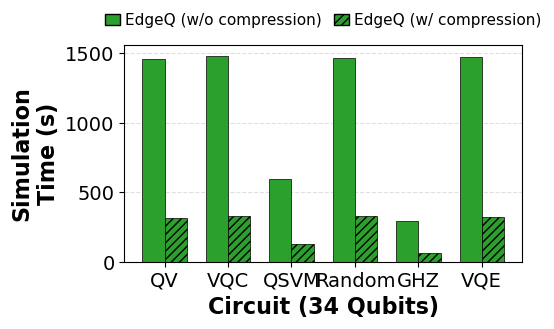
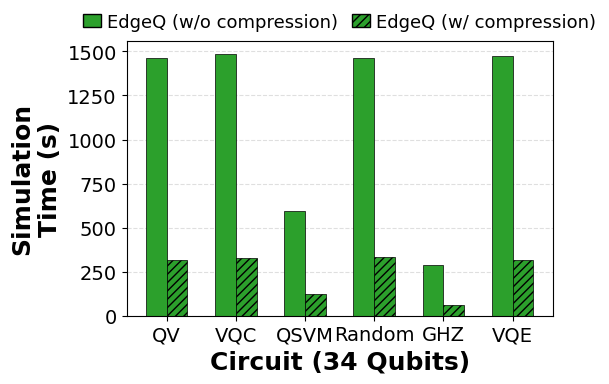
asdasda

diff --git a/4_Evaluation.tex b/4_Evaluation.tex
@@ -130,7 +130,8 @@ Since \EdgeQuantum streams state vector chunks through asynchronous storage I/O 
 
 Since the 256~GB physical NVMe SSD on the Jetson platform cannot accommodate raw state vectors beyond 35 qubits, \EdgeQuantum uses ping-pong LZ4 compression to extend simulation capacity. Figure~\ref{fig:storage_eff} reports two measurements. Figure~\ref{fig:eff_footprint} shows storage footprint reduction from 34Q to 39Q. Figure~\ref{fig:eff_speedup} shows per-circuit speedup at 34Q, where uncompressed state vectors dominate I/O time.
 
-\noindent\textbf{Storage Footprint Reduction.} Figure~\ref{fig:eff_footprint} compares logical state vector size with the on-disk footprint of the dual-file ping-pong layout. As qubit count grows from 34Q to 39Q, the logical footprint expands from 128~GB to 4~TB, while the ping-pong footprint scales from 1.00~GB to 32.13~GB. Each backing file occupies half of this footprint, corresponding to a per-file LZ4 compression ratio of 254$\times$-256$\times$ across all qubit counts. This indicates stable compression efficiency as the state vector grows. The dual-file layout doubles on-disk usage to ensure atomic per-layer updates, yielding an effective storage reduction of 128$\times$ relative to the logical size. The 128$\times$ metric reflects the total on-disk footprint with both backing files coexisting, whereas execution I/O volume scales with a single file at the full 256$\times$ per-file ratio. As a result, \EdgeQuantum fits a 39-qubit simulation within 32~GB of NVMe storage, whereas the raw representation exceeds physical capacity by 2$\times$ at 36Q and 16$\times$ at 39Q.
+\noindent\textbf{Storage Footprint Reduction.} Figure~\ref{fig:eff_footprint} compares logical state vector size with the on-disk footprint of the dual-file ping-pong layout. As qubit count grows from 34Q to 39Q, the logical footprint expands from 128~GB to 4~TB, while the ping-pong footprint scales from 1.00~GB to 32.13~GB. Each backing file occupies half of this footprint, corresponding to a per-file LZ4 compression ratio of 254$\times$-256$\times$ across all qubit counts. The dual-file layout doubles on-disk usage to ensure atomic per-layer updates, yielding an effective storage reduction of 128$\times$ relative to the logical size. The 128$\times$ metric reflects the total on-disk footprint with both backing files coexisting, whereas execution I/O volume scales with a single file at the full 256$\times$ per-file ratio. As a result, \EdgeQuantum fits a 39-qubit simulation within 32~GB of NVMe storage, whereas the raw representation exceeds physical capacity by 2$\times$ at 36Q and 16$\times$ at 39Q.
+
 
 \noindent\textbf{Performance Benefit.} Figure~\ref{fig:eff_speedup} compares per-circuit simulation time of \EdgeQuantum with and without LZ4 compression at 34Q. Compression yields a tightly clustered 4.41$\times$-4.74$\times$ speedup across all six circuit types, with the largest gain on QSVM (593.1s $\rightarrow$ 125.0s, 4.74$\times$) and the smallest on Random (1463.9s $\rightarrow$ 332.1s, 4.41$\times$). This speedup arises because the 256$\times$ LZ4 ratio reduces I/O volume between UVM and NVMe and transforms an I/O-bound workload into one dominated by compression and decompression overhead. At 34Q, all circuits become heavily I/O-bound regardless of compute density, so compression delivers uniform speedup across the workload set. The asynchronous pipeline alone capped GHZ at 1.21$\times$ (Section~\ref{4.2}) because its narrow compute window limited write-latency overlap. Compression bypasses this compute-window dependence by reducing I/O volume directly, so GHZ achieves 4.60$\times$ speedup matching the compute-dense circuits.
 
@@ -161,11 +162,11 @@ VQE    & 617.09 & 1,224.21 & 2,454.56 & 5,004.44 & 9,900.70 \\
 \label{tab:extreme_results}
 \end{table}
 
-Beyond the 34 qubits, the logical state vector exceeds the 256GB SSD capacity by up to 16$\times$ (4TB at 39Q). This makes the LZ4 ping-pong compression layer mandatory for execution, enabling \EdgeQuantum to operate where alternative simulators fail. Table~\ref{tab:extreme_results} shows the per-circuit simulation times across 35Q (256GB) to 39Q (4TB) at depth 5.
+Beyond the 34 qubits, the logical state vector exceeds the 256GB SSD capacity by up to 16$\times$ (4TB at 39Q). This makes the LZ4 ping-pong compression layer mandatory for execution, enabling \EdgeQuantum to operate where alternative simulators fail. Table~\ref{tab:extreme_results} shows the per-circuit simulation times across 35Q (256GB) to 39Q (4TB).
 
 As shown in the table, \EdgeQuantum exhibits stable, near-linear scalability as the state vector doubles at each qubit increment. For compute-dense circuits (Random, QV, VQC, VQE), runtime tracks the 16$\times$ data volume growth, increasing 16.7$\times$ from $\sim$590s at 35Q to $\sim$9,864s at 39Q (e.g., 9,912.1s or $\approx$2.75 hours for VQC). Lower-density circuits execute proportionally faster, with QSVM and GHZ completing 39Q in 3,960.3s and 1,980.2s, respectively. This near 2$\times$ time growth per qubit confirms that the ping-pong pipeline maintains compression throughput at the 4~TB scale without degradation from queue contention or fragmentation.
 
-This regime is accessible to \EdgeQuantum because of its UMA-optimized compression path. Server-grade simulators such as \textit{BMQSim} apply compression at the GPU level, relying on VRAM to stage and compress data. On edge devices, this approach is infeasible. When the logical state vector reaches or exceeds the 256 GB SSD capacity ($\geq$35Q), the raw state cannot be persisted on disk, leaving \textit{BMQSim-like} baseline with no chunks to stage from storage. Even at smaller scales, dedicating GPU cycles to compression contends with quantum gate kernels for the same compute resource. By performing LZ4 compression on the CPU during the I/O offloading phase, \EdgeQuantum exploits otherwise-idle CPU cores and preserves GPU compute cycles for quantum gate operations. Among the three baselines defined in Section~\ref{setup}, \textit{cuQuantum} variants fail at 29Q from DRAM exhaustion and \textit{BMQSim-like} cannot start beyond 34Q from SSD exhaustion, leaving \EdgeQuantum as the only framework to reach the 4~TB regime on this 8~GB device.
+This regime is accessible to \EdgeQuantum because of its UMA-optimized compression path. Server-grade simulators such as \textit{BMQSim} apply compression at the GPU level, relying on VRAM to stage and compress data, which is infeasible on edge devices. When the logical state vector reaches or exceeds the 256~GB SSD capacity ($\geq$35Q), the raw state cannot be persisted on disk, leaving \textit{BMQSim-like} with no chunks to stage from storage. Even at smaller scales, dedicating GPU cycles to compression contends with quantum gate kernels for the same compute resources. By performing LZ4 compression on the CPU during the I/O offloading phase, \EdgeQuantum exploits otherwise idle CPU cores and preserves GPU compute cycles for quantum gate operations. Among the three baselines defined in Section~\ref{setup}, \textit{cuQuantum} variants fail at 29Q because of DRAM exhaustion, and \textit{BMQSim-like} cannot start beyond 34Q because of SSD exhaustion, leaving \EdgeQuantum as the only framework to reach the 4~TB regime on this 8~GB device.
 
 \subsection{I/O Breakdown with Compression}\label{sec:io_breakdown_compressed}
 